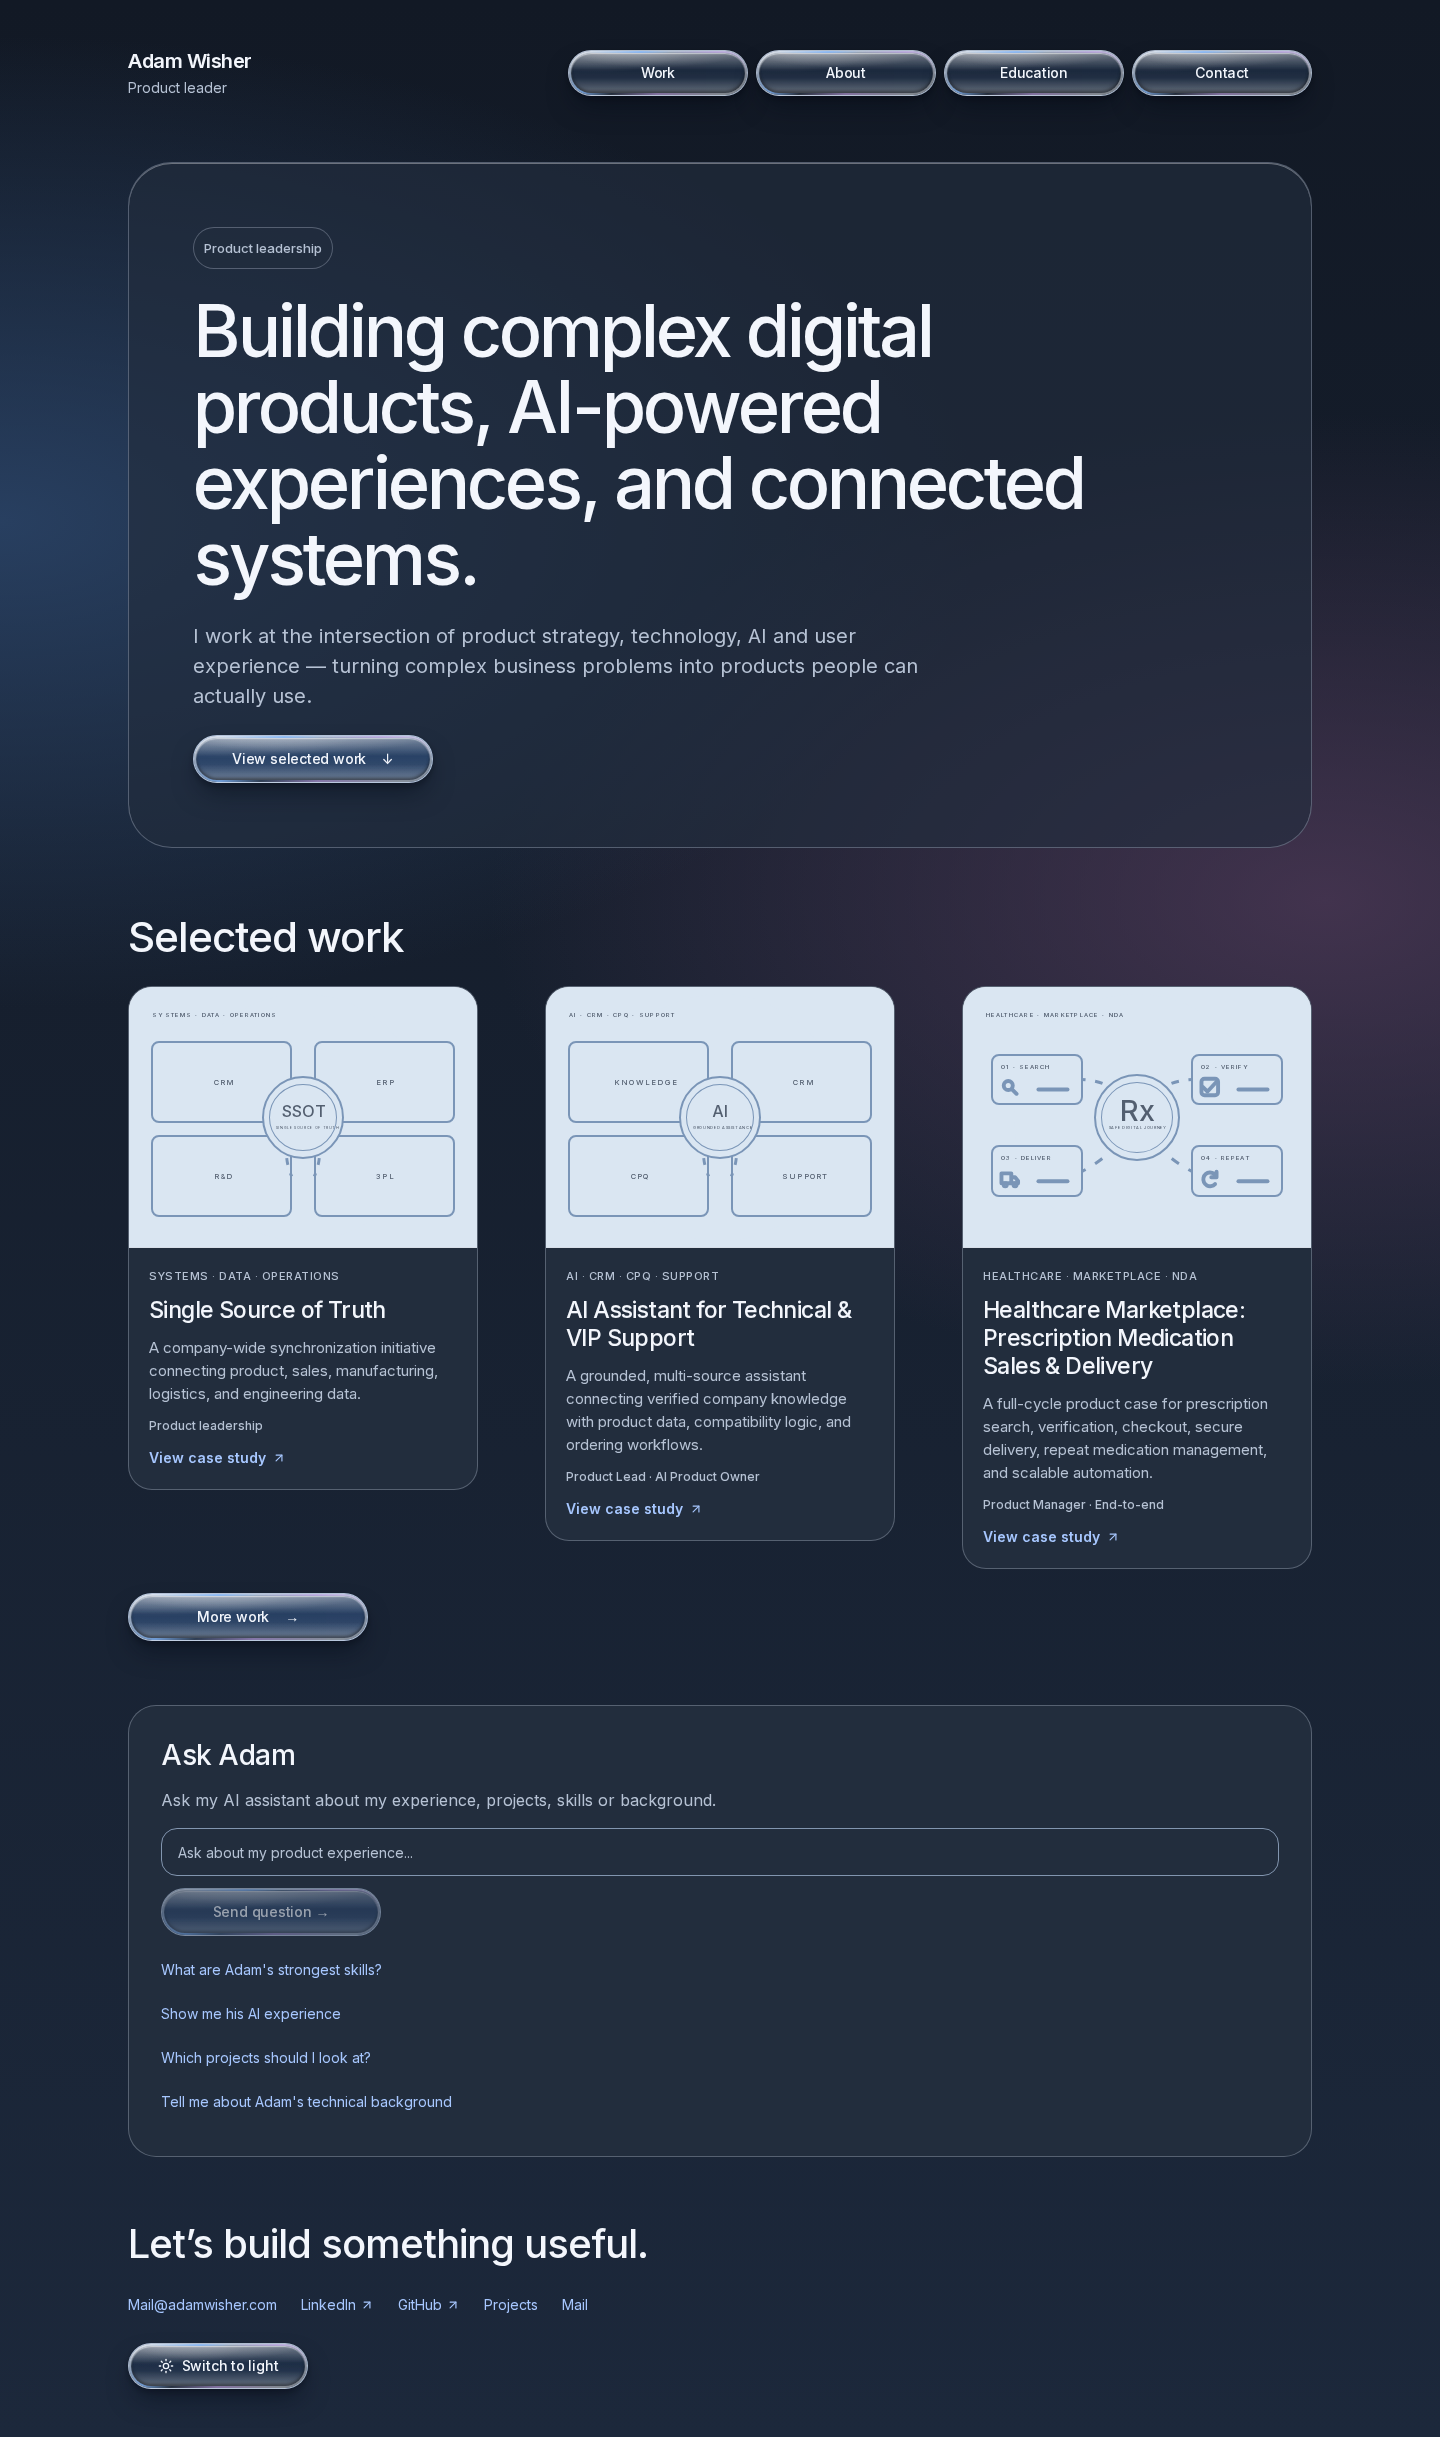
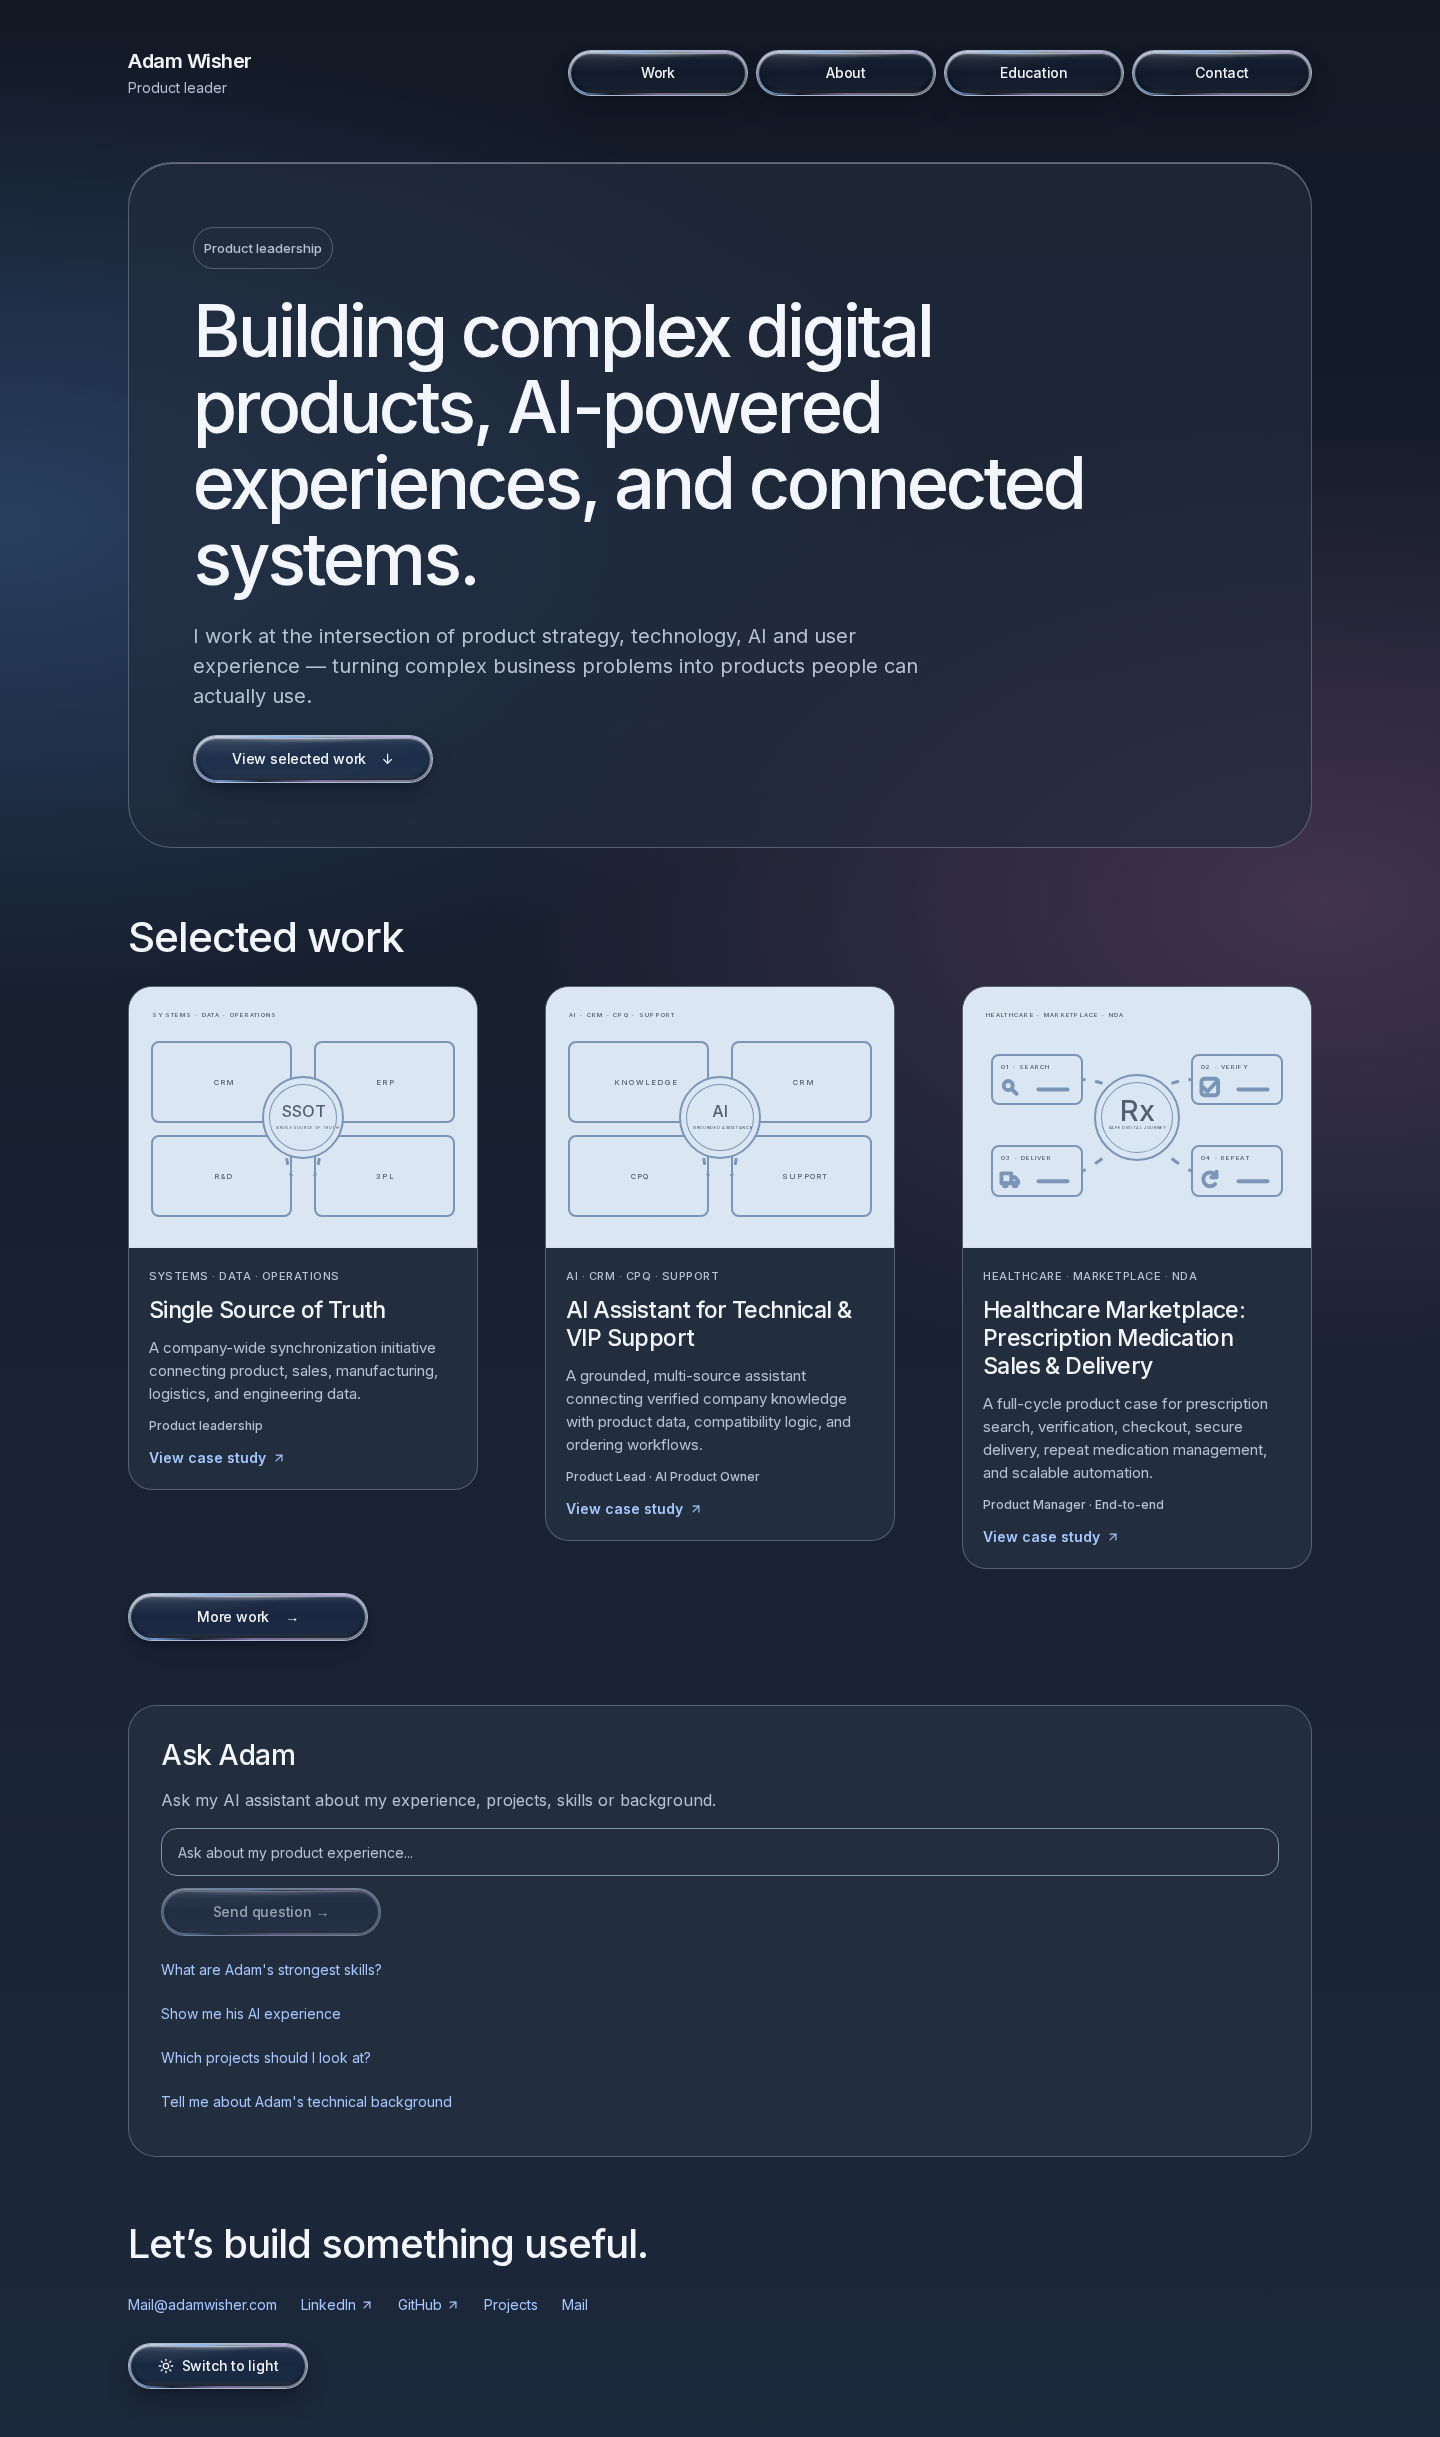
Make glass controls clear-centered and glossy like the supplied Dock reference

diff --git a/app/liquid-glass.css b/app/liquid-glass.css
@@ -6,12 +6,12 @@
   --reference-blue: #ccdbf8;
   --reference-lilac: #e1cee1;
   --liquid-text: #263e62;
-  --liquid-tint: rgb(255 255 255 / 0.16);
-  --liquid-primary-tint: rgb(221 234 255 / 0.26);
-  --liquid-light: rgb(255 255 255 / 0.86);
+  --liquid-tint: rgb(255 255 255 / 0.025);
+  --liquid-primary-tint: rgb(221 234 255 / 0.045);
+  --liquid-light: rgb(255 255 255 / 0.22);
   --liquid-edge: rgb(255 255 255 / 0.88);
-  --liquid-shadow: rgb(54 74 112 / 0.25);
-  --liquid-contact: rgb(42 59 92 / 0.15);
+  --liquid-shadow: rgb(54 74 112 / 0.19);
+  --liquid-contact: rgb(42 59 92 / 0.1);
   --liquid-rim-blue: rgb(111 158 222 / 0.55);
   --liquid-rim-lilac: rgb(183 150 206 / 0.48);
   --liquid-reflection: rgb(255 255 255 / 0.94);
@@ -32,12 +32,12 @@
 :root.dark {
   --reference-base: #121925;
   --liquid-text: #f3f6fc;
-  --liquid-tint: rgb(34 48 70 / 0.68);
-  --liquid-primary-tint: rgb(49 75 112 / 0.72);
-  --liquid-light: rgb(255 255 255 / 0.24);
+  --liquid-tint: rgb(34 48 70 / 0.08);
+  --liquid-primary-tint: rgb(49 75 112 / 0.12);
+  --liquid-light: rgb(255 255 255 / 0.1);
   --liquid-edge: rgb(225 237 255 / 0.72);
-  --liquid-shadow: rgb(4 10 22 / 0.5);
-  --liquid-contact: rgb(2 8 18 / 0.3);
+  --liquid-shadow: rgb(4 10 22 / 0.36);
+  --liquid-contact: rgb(2 8 18 / 0.2);
   --liquid-rim-blue: rgb(133 186 255 / 0.75);
   --liquid-rim-lilac: rgb(201 164 236 / 0.56);
   --liquid-reflection: rgb(255 255 255 / 0.42);
@@ -84,9 +84,9 @@ body::before {
     ),
     linear-gradient(
       180deg,
-      rgb(255 255 255 / 0.18),
+      rgb(255 255 255 / 0.025),
       transparent 45%,
-      rgb(255 255 255 / 0.1)
+      rgb(255 255 255 / 0.02)
     ),
     var(--liquid-fill);
   color: var(--liquid-text);
@@ -96,8 +96,8 @@ body::before {
     inset 0 2px 2px var(--liquid-edge),
     inset 0 -3px 4px var(--liquid-bottom),
     inset 2px 0 2px var(--liquid-light);
-  -webkit-backdrop-filter: blur(16px) saturate(170%);
-  backdrop-filter: blur(16px) saturate(170%);
+  -webkit-backdrop-filter: blur(5px) saturate(135%);
+  backdrop-filter: blur(5px) saturate(135%);
   font-weight: 500;
   letter-spacing: -0.015em;
   text-decoration: none;
@@ -120,16 +120,16 @@ body::before {
   pointer-events: none;
   background:
     radial-gradient(
-      ellipse 62% 65% at 48% -25%,
+      ellipse 46% 16% at 48% -3%,
       var(--liquid-reflection),
       transparent 95%
     ),
     linear-gradient(
       180deg,
       var(--liquid-light) 0%,
-      transparent 42%,
-      transparent 62%,
-      rgb(255 255 255 / 0.25) 100%
+      transparent 18%,
+      transparent 88%,
+      rgb(255 255 255 / 0.12) 100%
     );
   box-shadow:
     inset 0 1px 1px var(--liquid-reflection),

diff --git a/docs/figma-redesign-implementation.md b/docs/figma-redesign-implementation.md
@@ -99,3 +99,8 @@ Inter remains the approved practical typeface, with 500 headlines/control labels
 ### Higher-gloss control revision
 
 Following the owner's approval of text and background, only the button material was intensified: clearer fill, brighter curved upper reflection, a hollow two-pixel refractive rim, lower return light, deeper contact/ambient shadows, and stronger hover depth. Light and dark use separate optical tokens. Decorative layers remain behind labels and ignore pointer events. Both optical layers disappear for reduced transparency/increased contrast and unsupported backdrop filters. Approved background and typography values are unchanged by this revision.
+
+
+### Clear Dock-style glass
+
+The owner supplied an iOS Dock reference and requested maximum transparency. Removed the broad milky highlight and dense tint: the light control fill is now 2.5–4.5% and the dark fill 8–12%; these are tint-layer alpha values, not overall rendered opacity. Background blur is reduced to 5px. Reflections are confined to narrow edge regions, preserving a transparent center while retaining the glossy rim and volume. Text, page gradient and layout remain unchanged. The effect is CSS glass, not the native iOS Dock renderer.
